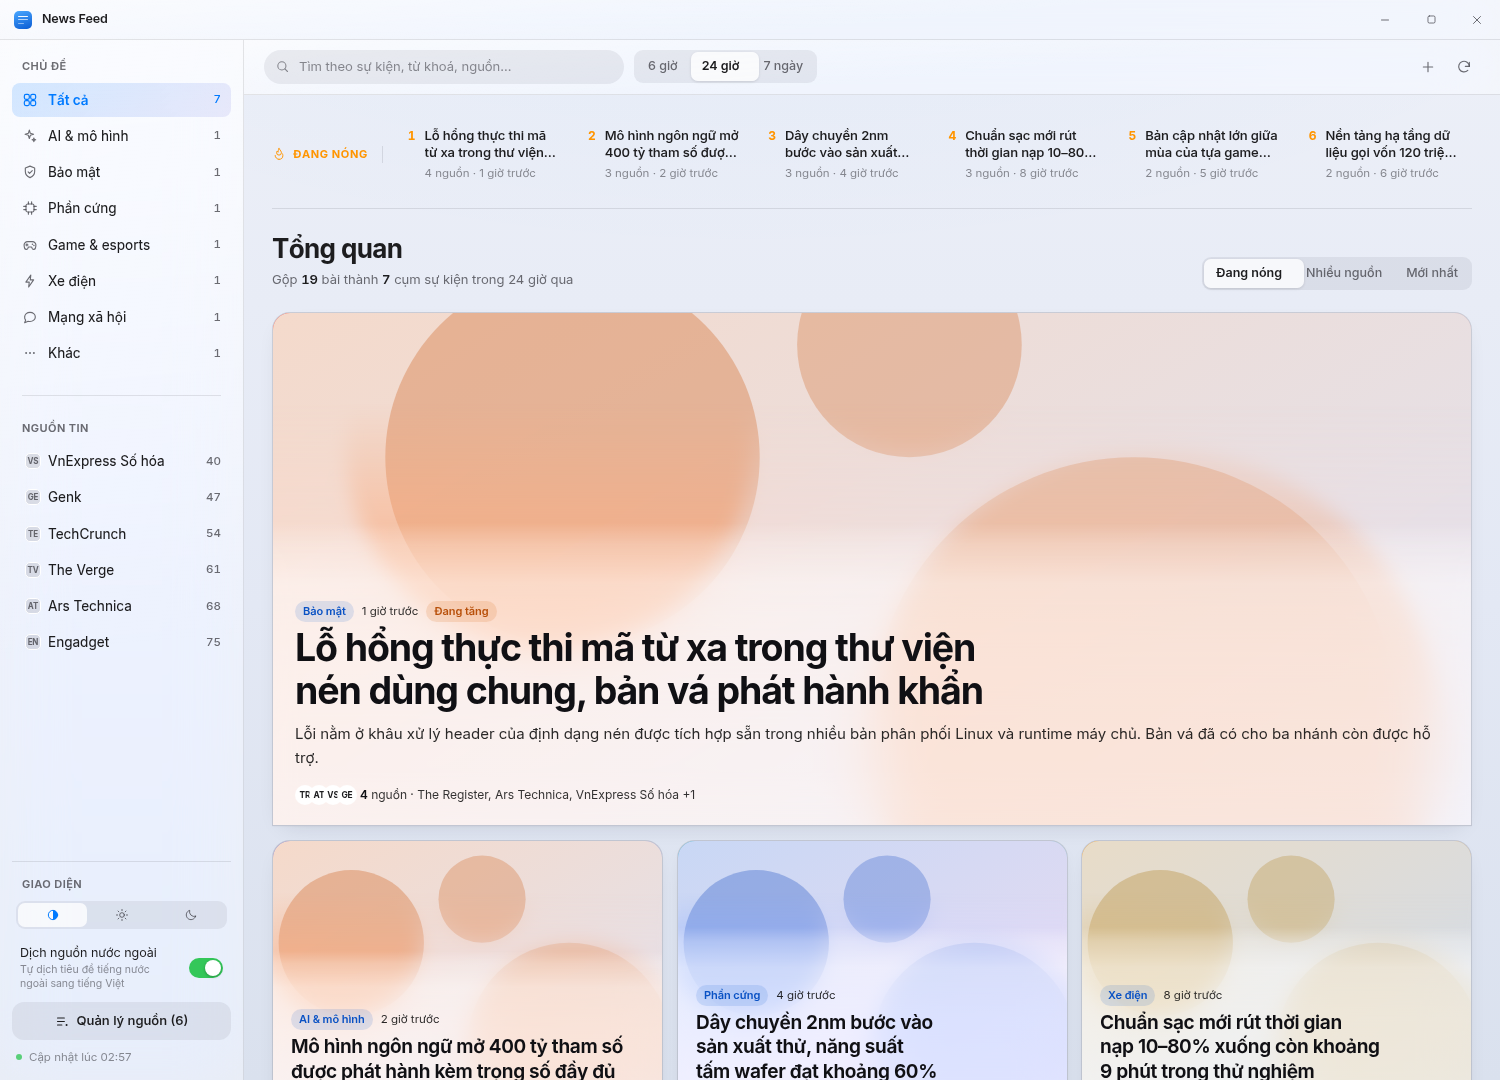
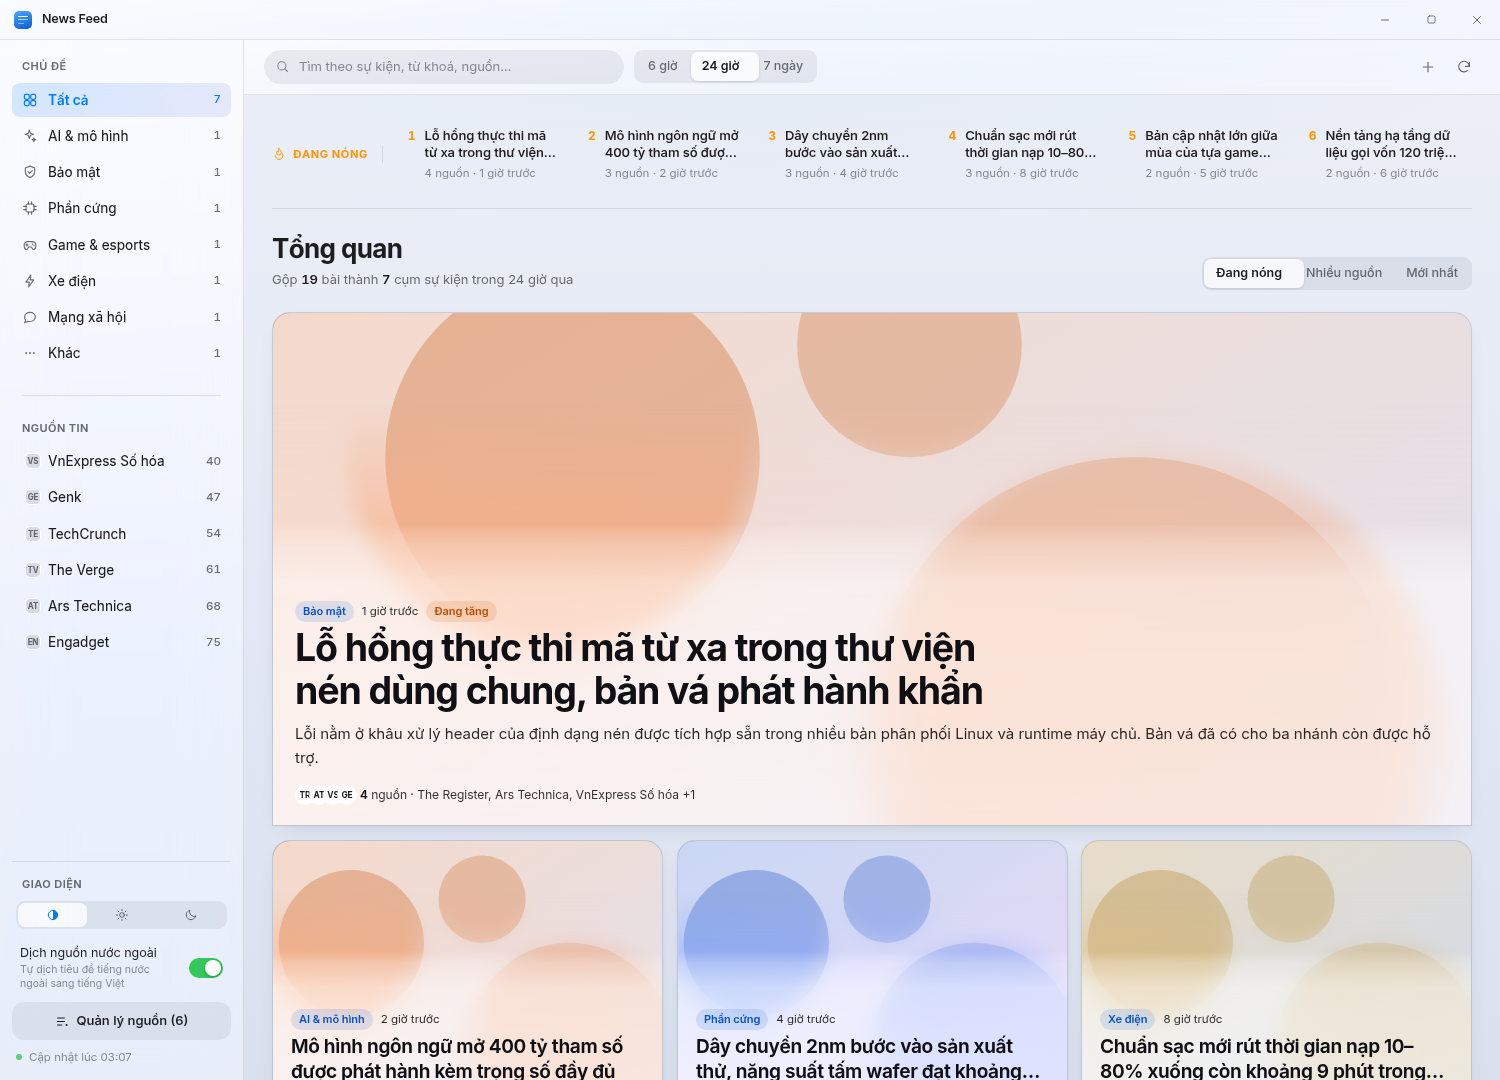
Đồng bộ chiều cao tấm kính giữa các thẻ cùng hàng (v0.13.1)
Chiều cao tấm kính bằng chiều cao nội dung của nó, nên tiêu đề dài ngắn khác
nhau là các tấm cùng hàng cao thấp khác nhau. Đo trên dòng tin: ba thẻ lưới
cùng khổ 362px cho ba tấm 217, 194 và 217px — chênh 23px, chỉ vì một thẻ có
tiêu đề một dòng còn hai thẻ kia hai dòng.

Cắt tiêu đề và tóm tắt ở đúng hai dòng rồi giữ chỗ đủ hai dòng kể cả khi nội
dung ngắn hơn. Tiêu đề tin đặc tả trước cắt ở ba dòng, tức thẻ hai dòng và
thẻ ba dòng trong cùng hàng vẫn lệch, nên hạ về hai. Ô tóm tắt của thẻ lưới
giờ dựng cả khi rỗng: bỏ hẳn thì tấm của thẻ đó thấp hơn các thẻ bên cạnh.

Giữ chỗ tính theo em chứ không theo pixel, nên vẫn đúng ở mọi mốc màn hình
nơi cỡ chữ thay đổi. Thử ở năm khổ từ 1100 tới 3200px: chiều cao tấm đi từ
217 lên 235px theo cỡ chữ, nhưng chênh lệch trong mỗi hàng luôn bằng 0. Thử
tiếp bằng cách thay nội dung thành tiêu đề một từ, tiêu đề bốn dòng, tóm tắt
rỗng và tóm tắt rất dài: vẫn bằng 0, và đáy tấm vẫn khớp đáy thẻ.

Claude-Session: https://claude.ai/code/session_01MD966JSNomz1eEWirJxpnf

diff --git a/src/styles/app.css b/src/styles/app.css
@@ -632,11 +632,15 @@
   grid-template-columns: repeat(3, minmax(0, 1fr));
   gap: 14px;
 }
+/* Hai dòng, giữ chỗ đủ hai dòng — cùng lý do với .c-title. Trước đây cắt ở
+   ba dòng, nghĩa là thẻ hai dòng và thẻ ba dòng trong cùng một hàng sẽ lệch
+   nhau. */
 .feature-title {
   margin: 2px 0 0;
   font-size: 19px; font-weight: 650; line-height: 1.28; letter-spacing: -0.018em;
   text-wrap: balance;
-  display: -webkit-box; -webkit-line-clamp: 3; -webkit-box-orient: vertical; overflow: hidden;
+  display: -webkit-box; -webkit-line-clamp: 2; -webkit-box-orient: vertical; overflow: hidden;
+  min-height: 2.56em;
 }
 .feature-card .c-foot { margin-top: 12px; }
 
@@ -683,15 +687,23 @@
 .pill.quiet { background: var(--fill); color: var(--label-3); font-weight: 500; }
 .stamp { font-size: 11.5px; color: var(--label-3); }
 
+/* Cắt và giữ chỗ đúng hai dòng.
+   Chiều cao tấm kính bằng chiều cao nội dung của nó, nên tiêu đề dài ngắn
+   khác nhau là các tấm cùng hàng cao thấp khác nhau — đo được chênh 23px
+   giữa thẻ tiêu đề một dòng và thẻ hai dòng. Giữ chỗ theo em nên vẫn đúng ở
+   mọi mốc màn hình, nơi cỡ chữ thay đổi. */
 .c-title {
   margin: 0 0 7px;
   font-size: 17.5px; font-weight: 650; line-height: 1.32; letter-spacing: -0.014em;
   text-wrap: balance;
+  display: -webkit-box; -webkit-line-clamp: 2; -webkit-box-orient: vertical; overflow: hidden;
+  min-height: 2.64em;
 }
 .c-summary {
   margin: 0;
   font-size: 14px; line-height: 1.55; color: var(--label-2);
   display: -webkit-box; -webkit-line-clamp: 2; -webkit-box-orient: vertical; overflow: hidden;
+  min-height: 3.1em;
 }
 .c-foot { display: flex; align-items: center; gap: 9px; margin-top: 12px; min-width: 0; }
 .avatar-stack { display: flex; flex: none; }

diff --git a/src/components/ClusterCard.tsx b/src/components/ClusterCard.tsx
@@ -85,7 +85,9 @@ export function ClusterCard({ cluster, index, onOpen }: Props) {
         </span>
 
         <h2 className="c-title">{translated || cluster.title}</h2>
-        {summary && <p className="c-summary">{summary}</p>}
+        {/* Luôn dựng ô tóm tắt kể cả khi rỗng: bỏ hẳn thì tấm kính của thẻ
+            đó thấp hơn các thẻ cùng hàng. */}
+        <p className="c-summary">{summary}</p>
 
         <span className="c-foot">
           <span className="avatar-stack">
